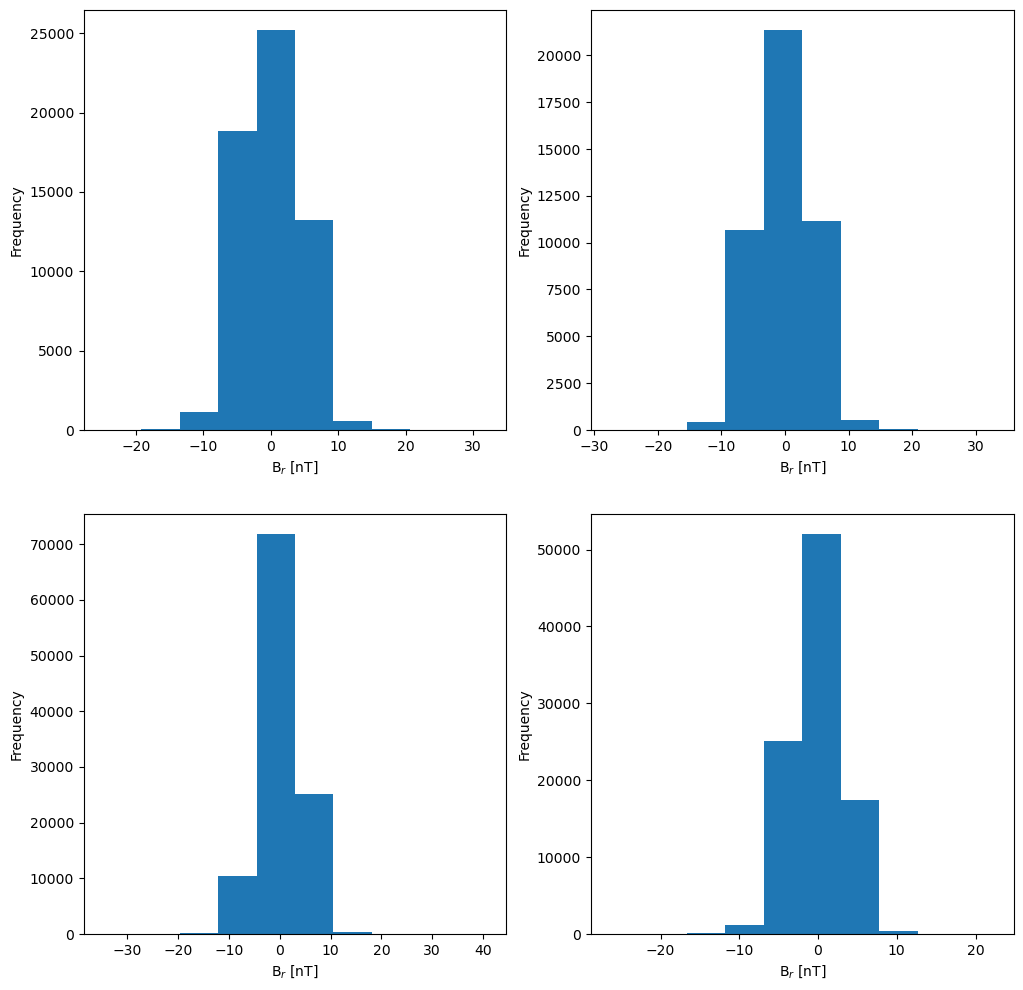
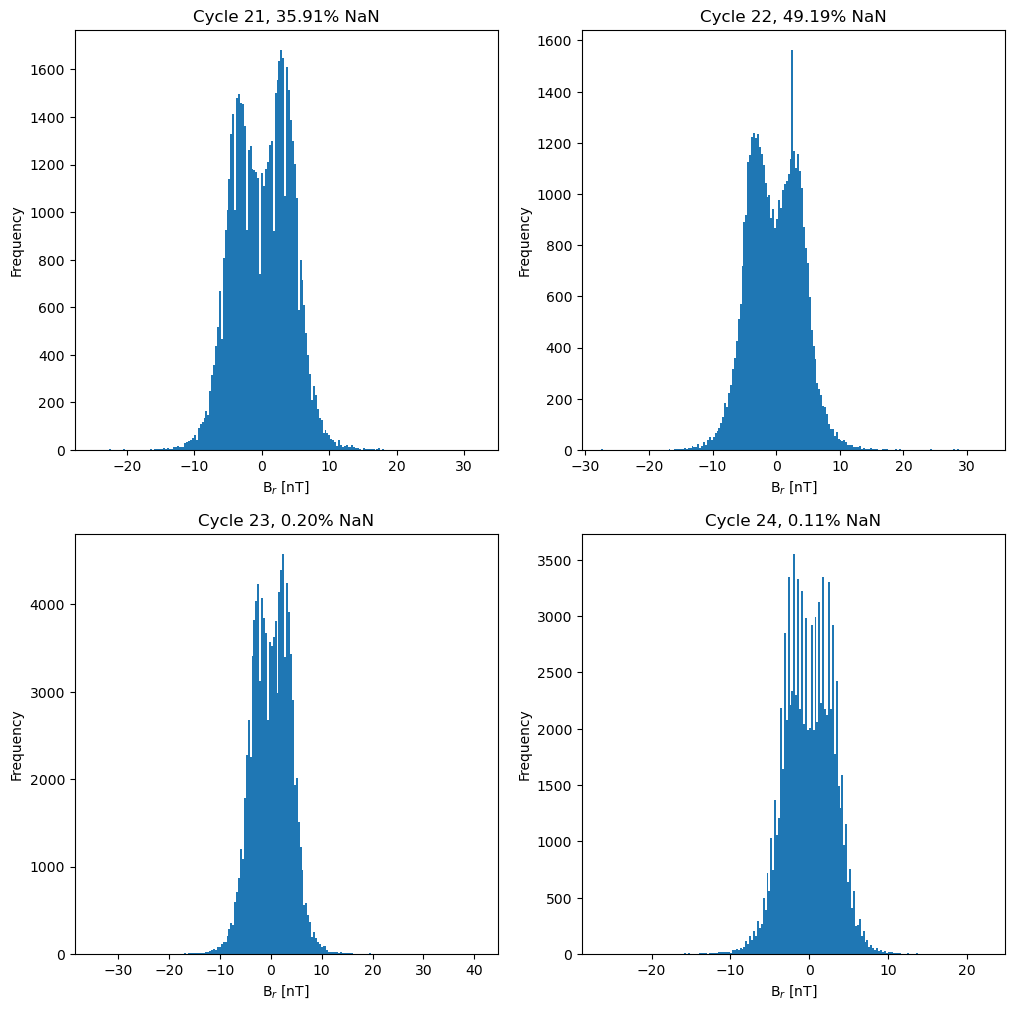
2021-01-18 22:53:22

diff --git a/scripts/cycle_checks.py b/scripts/cycle_checks.py
@@ -35,12 +35,11 @@ def remove_nans(array: np.ndarray) -> np.ndarray:
 # =========================================================================
 # For each cycle, count the number of NaN values for each key, the length
 # of the cycle (number of hours), and start and end times -> tabulate all
+output_cols = ['Start', 'End', 'Total Points']
 cycle_df = pd.DataFrame()
 cycles = [21, 22, 23, 24]
 
-output_cols = ['Start', 'End', 'Total Points']
-
-for cycle in cycles:
+for i, cycle in enumerate(cycles):
   cycle_start = datetime_from_cycle(solar_cycles, cycle)
   cycle_end = datetime_from_cycle(solar_cycles, cycle, key='end')
   cycle_data = dp.get_omni_rtn_data(cycle_start, cycle_end).to_dataframe()
@@ -93,11 +92,10 @@ for key, label in zip(keys, labels):
 
       data = remove_nans(cycle_data[key])
 
-      axes[i][j].hist(cycle_data[key])
+      axes[i][j].hist(cycle_data[key], bins=200)
       axes[i][j].set_xlabel(label)
       axes[i][j].set_ylabel("Frequency")
-      print(cycle_df.keys())
-      axes[i][j].set_title(f"Cycle {cycle}, {cycle_df[cycle][nan_vals_key]}% NaN")
+      axes[i][j].set_title(f"Cycle {cycle}, {cycle_df[nan_vals_key][cycle]:.2f}% NaN")
 
   plt.savefig(fig_file, bbox_inches="tight")
 
@@ -118,7 +116,7 @@ for i in range(nrows):
     br_data = remove_nans(cycle_data['BR'])
     vr_data = remove_nans(cycle_data['V'])
 
-    axes[i][j].hist2d(cycle_data['BR'], cycle_data['V'])
+    axes[i][j].hist2d(cycle_data['BR'], cycle_data['V'], bins=200)
     axes[i][j].set_xlabel(r"B$_r$ [nT]")
     axes[i][j].set_ylabel(r"v$_r$ [km s$^{-1}$]")
 
